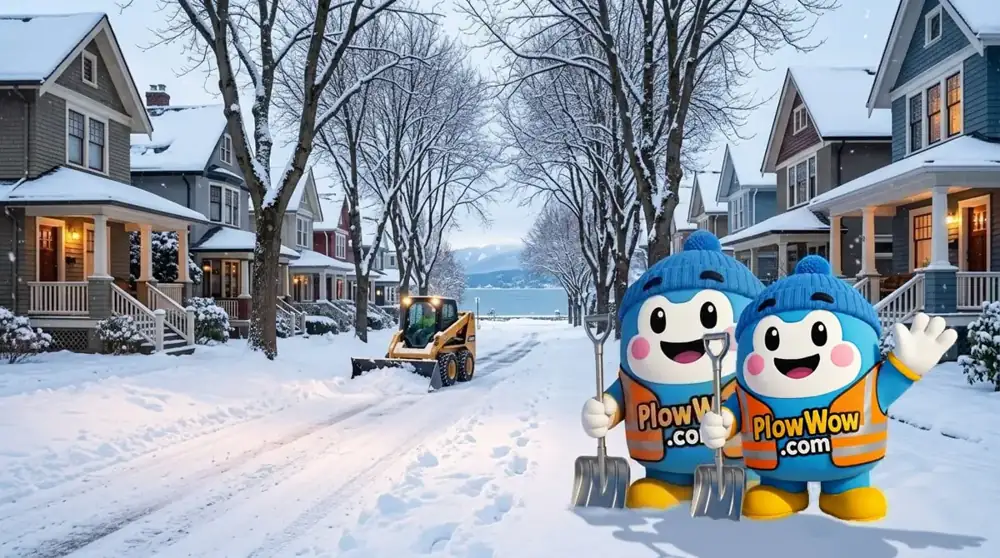
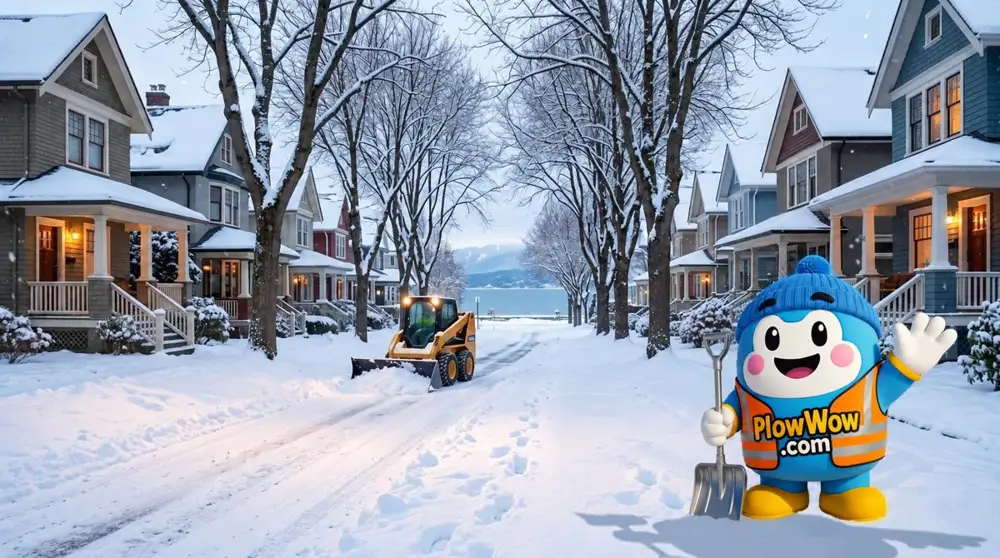
Replace duplicate Wow mascots with single-mascot Kitsilano artwork

diff --git a/src/data/westSideSnowPosts.ts b/src/data/westSideSnowPosts.ts
@@ -40,7 +40,7 @@ export const westSideSnowPosts: BlogPost[] = [
     "readTime": "6 min read",
     "metaDescription": "A hyperlocal West Side Vancouver strata snow-removal guide for Kitsilano and nearby neighbourhoods: sidewalks, steps, parkade access and PlowWow contracts.",
     "image": "images/plowwow/kitsilano-strata-winter.webp",
-    "imageAlt": "PlowWow mascots in a branded illustration of a snowy Kitsilano-style neighbourhood",
+    "imageAlt": "A single PlowWow mascot in a branded illustration of a snowy Kitsilano-style neighbourhood",
     "imageCaption": "Kitsilano winter-planning artwork from PlowWow’s editorial image library. Illustration, not a client-property or service-visit photograph.",
     "relatedProjectLinks": [
       {
